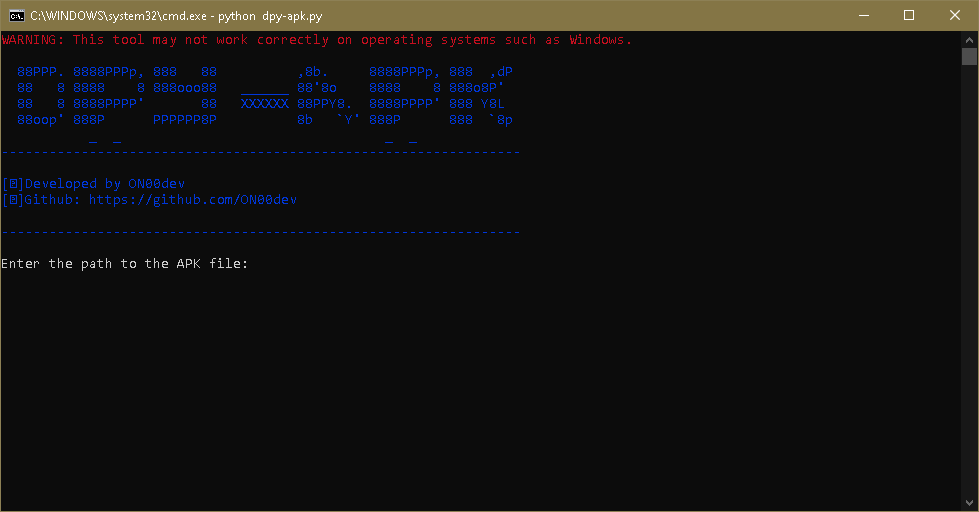
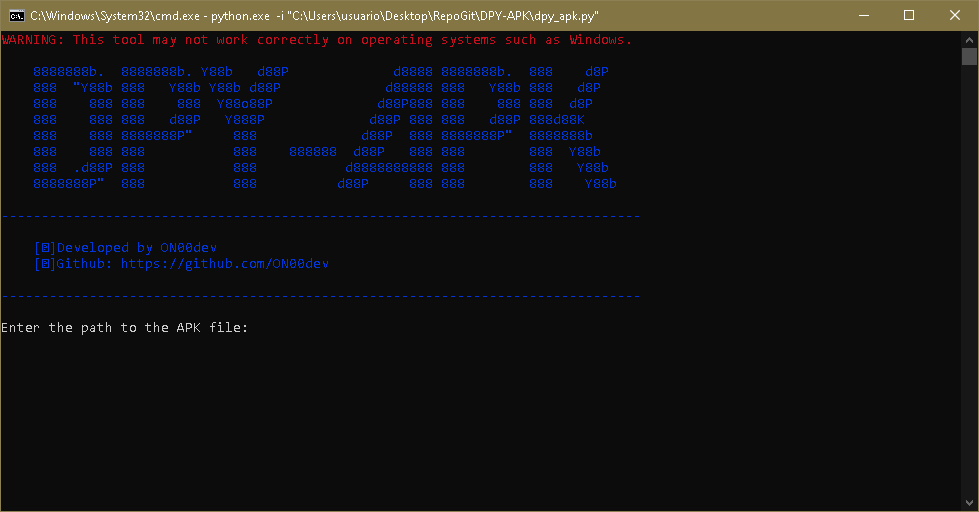
Updated

diff --git a/dpy_apk.py b/dpy_apk.py
@@ -20,6 +20,23 @@ elif operacional_sys =="nt":
 else:
     print(Fore.RED+"Operating System not supported."+Fore.RESET)
 
+print(Fore.BLUE+'''
+    8888888b.  8888888b. Y88b   d88P             d8888 8888888b.  888    d8P  
+    888  "Y88b 888   Y88b Y88b d88P             d88888 888   Y88b 888   d8P   
+    888    888 888    888  Y88o88P             d88P888 888    888 888  d8P    
+    888    888 888   d88P   Y888P             d88P 888 888   d88P 888d88K     
+    888    888 8888888P"     888             d88P  888 8888888P"  8888888b    
+    888    888 888           888    888888  d88P   888 888        888  Y88b   
+    888  .d88P 888           888           d8888888888 888        888   Y88b  
+    8888888P"  888           888          d88P     888 888        888    Y88b 
+                                                                              
+-------------------------------------------------------------------------------- 
+  
+    [☆]Developed by ON00dev
+    [☆]Github: https://github.com/ON00dev
+    
+--------------------------------------------------------------------------------    
+''')
 # Configure o logging
 logging.basicConfig(level=logging.DEBUG, format='%(asctime)s - %(levelname)s - %(message)s')
 
